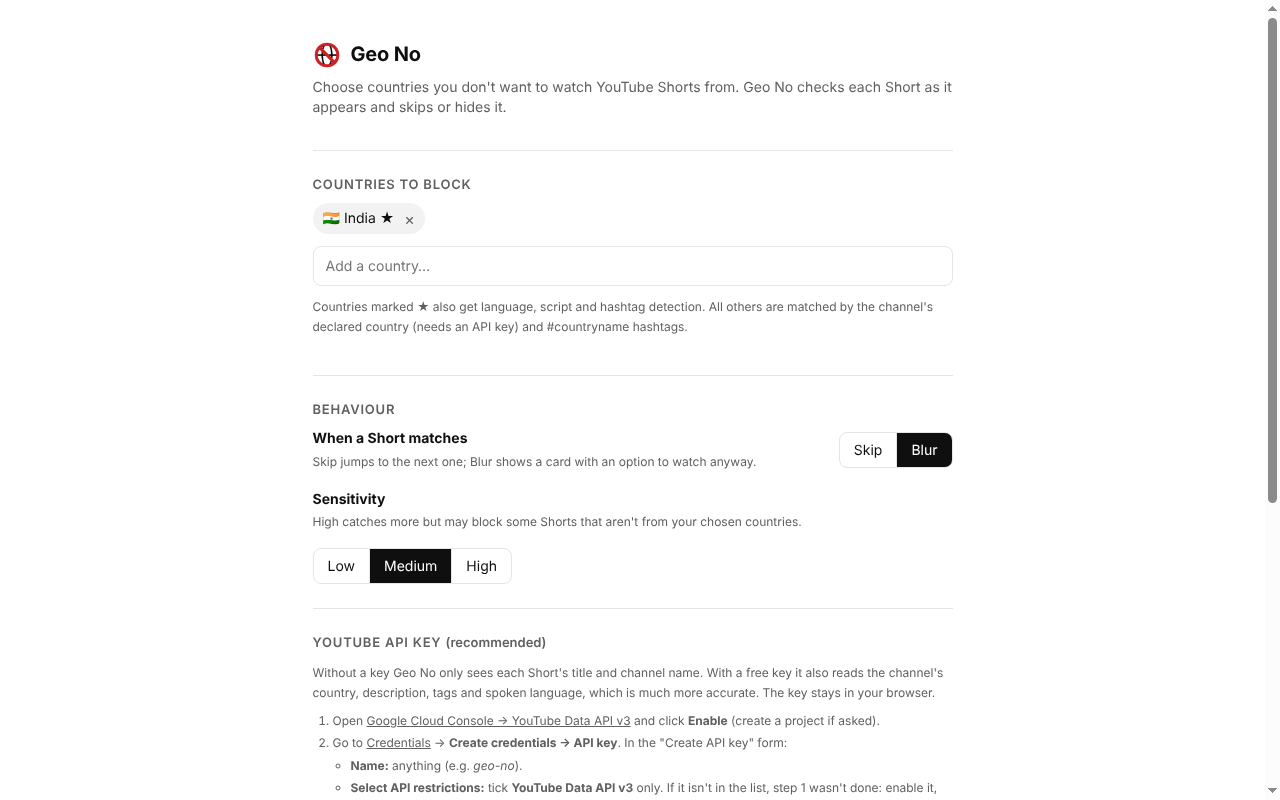
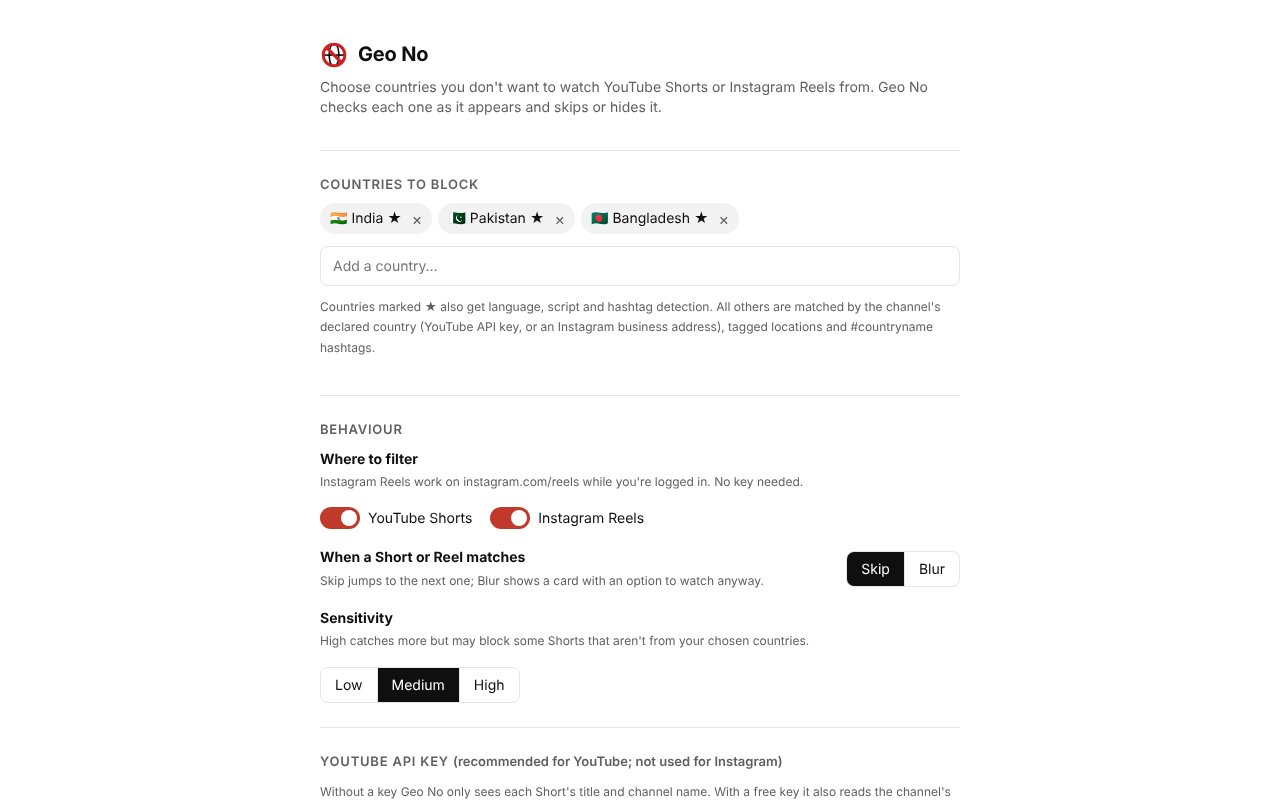
Store assets: Instagram Reels screenshot, refreshed settings screenshot
Claude-Session: https://claude.ai/code/session_01Y6MAeBsFzZGsFUtnhTrg9R

diff --git a/store/LISTING.md b/store/LISTING.md
@@ -48,7 +48,7 @@ Report problems: https://github.com/addester/geo-no/issues
 
 **Graphic assets**
 - Store icon 128×128: `extension/icons/icon128.png`
-- Screenshots 1280×800: `docs/img/blocked.png`, `docs/img/settings.png`, `docs/img/api-key-steps.png`
+- Screenshots 1280×800 (in this order): `docs/img/blocked.png` (YouTube), `docs/img/blocked-instagram.png` (Instagram), `docs/img/settings.png`, `docs/img/api-key-steps.png`
 - Small promo tile 440×280: `store/promo-440x280.png`
 
 **Official URL / Homepage:** https://addester.github.io/geo-no/
